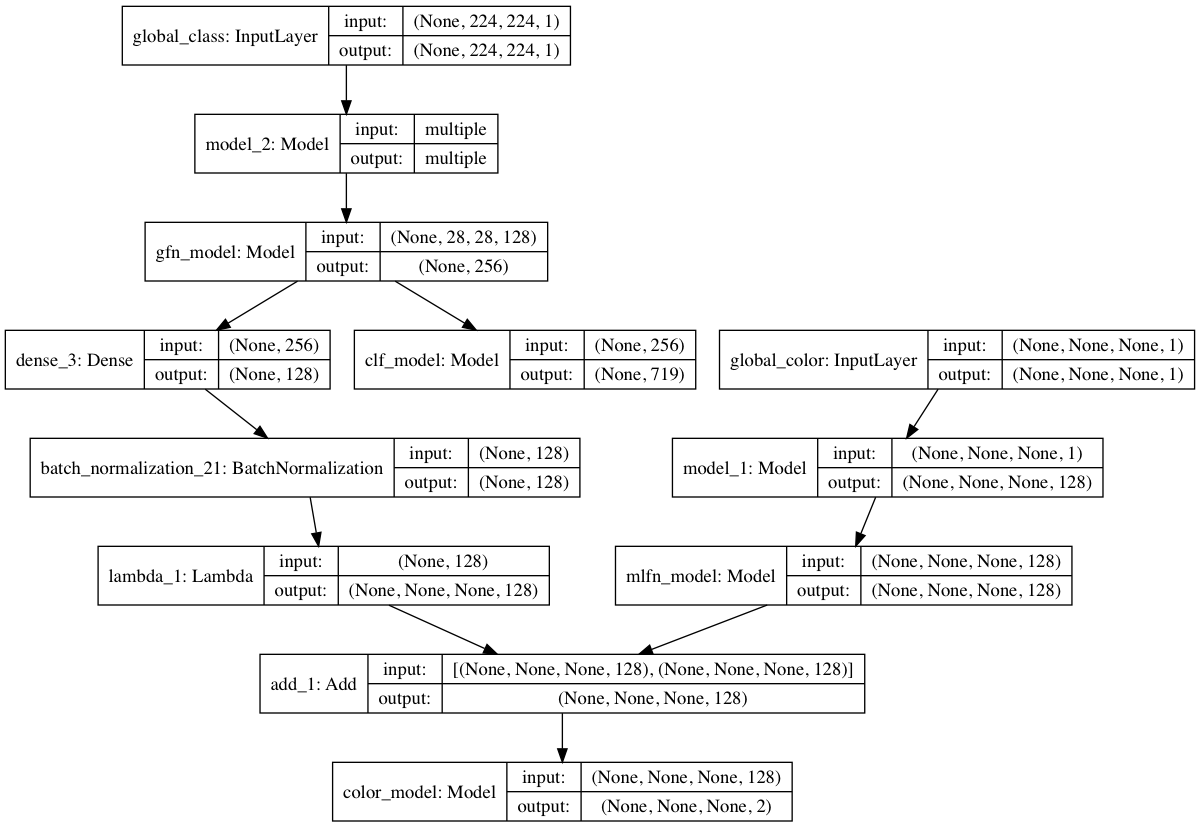
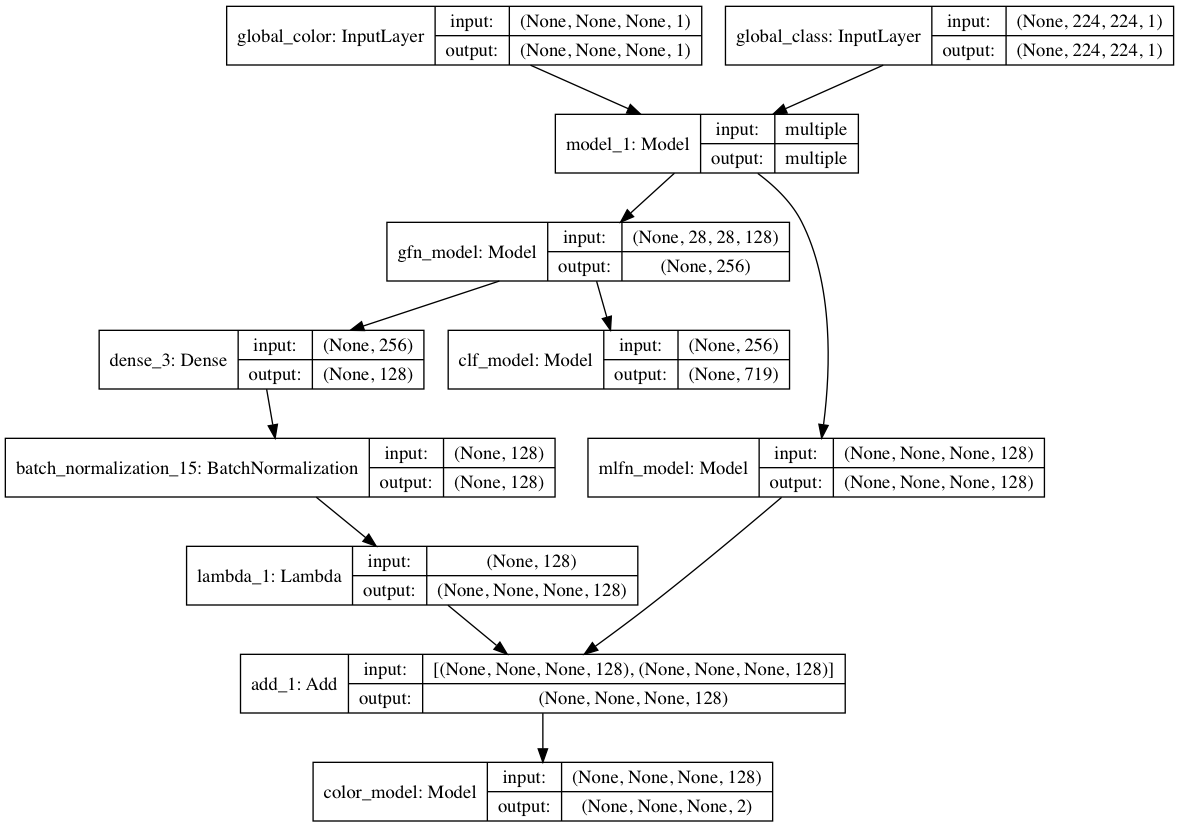
Major Restart. - Shared llfn

diff --git a/CNN/FullNetwork.py b/CNN/FullNetwork.py
@@ -22,12 +22,13 @@ def tile(x, k):
 
 
 def model():
+    shared_llfn = llfn()
     color_input = Input(batch_shape=(None, None, None, 1), name='global_color')
-    color_branch = llfn()(color_input)
+    color_branch = shared_llfn(color_input)
     color_branch = mlfn()(color_branch)
 
     class_input = Input(batch_shape=(None, 224, 224, 1), name='global_class')
-    class_branch = llfn()(class_input)
+    class_branch = shared_llfn(class_input)
     class_branch = gfn()(class_branch)
 
     gfn_units = Dense(units=128, activation='relu', kernel_initializer='he_uniform',

diff --git a/test.py b/test.py
@@ -24,8 +24,8 @@ def main(filename):
     img = np.expand_dims(np.expand_dims(rgb2lab(imread(filename))[:, :, 0], -1), 0)
 
     model = FullNetwork.model()
-    if os.path.exists('micro-weights.h5'):
-        model.load_weights('micro-weights.h5')
+    if os.path.exists('ic-weights.h5'):
+        model.load_weights('ic-weights.h5')
         print('Model loaded.')
 
     ab, pred = model.predict([img, clf], 1, 1,)

diff --git a/view_epochs.py b/view_epochs.py
@@ -1,5 +1,5 @@
 from pprint import pprint
 import json
 
-d = json.load(open('epochs.json'))
+d = json.load(open('ic-epochs.json'))
 pprint(d)
